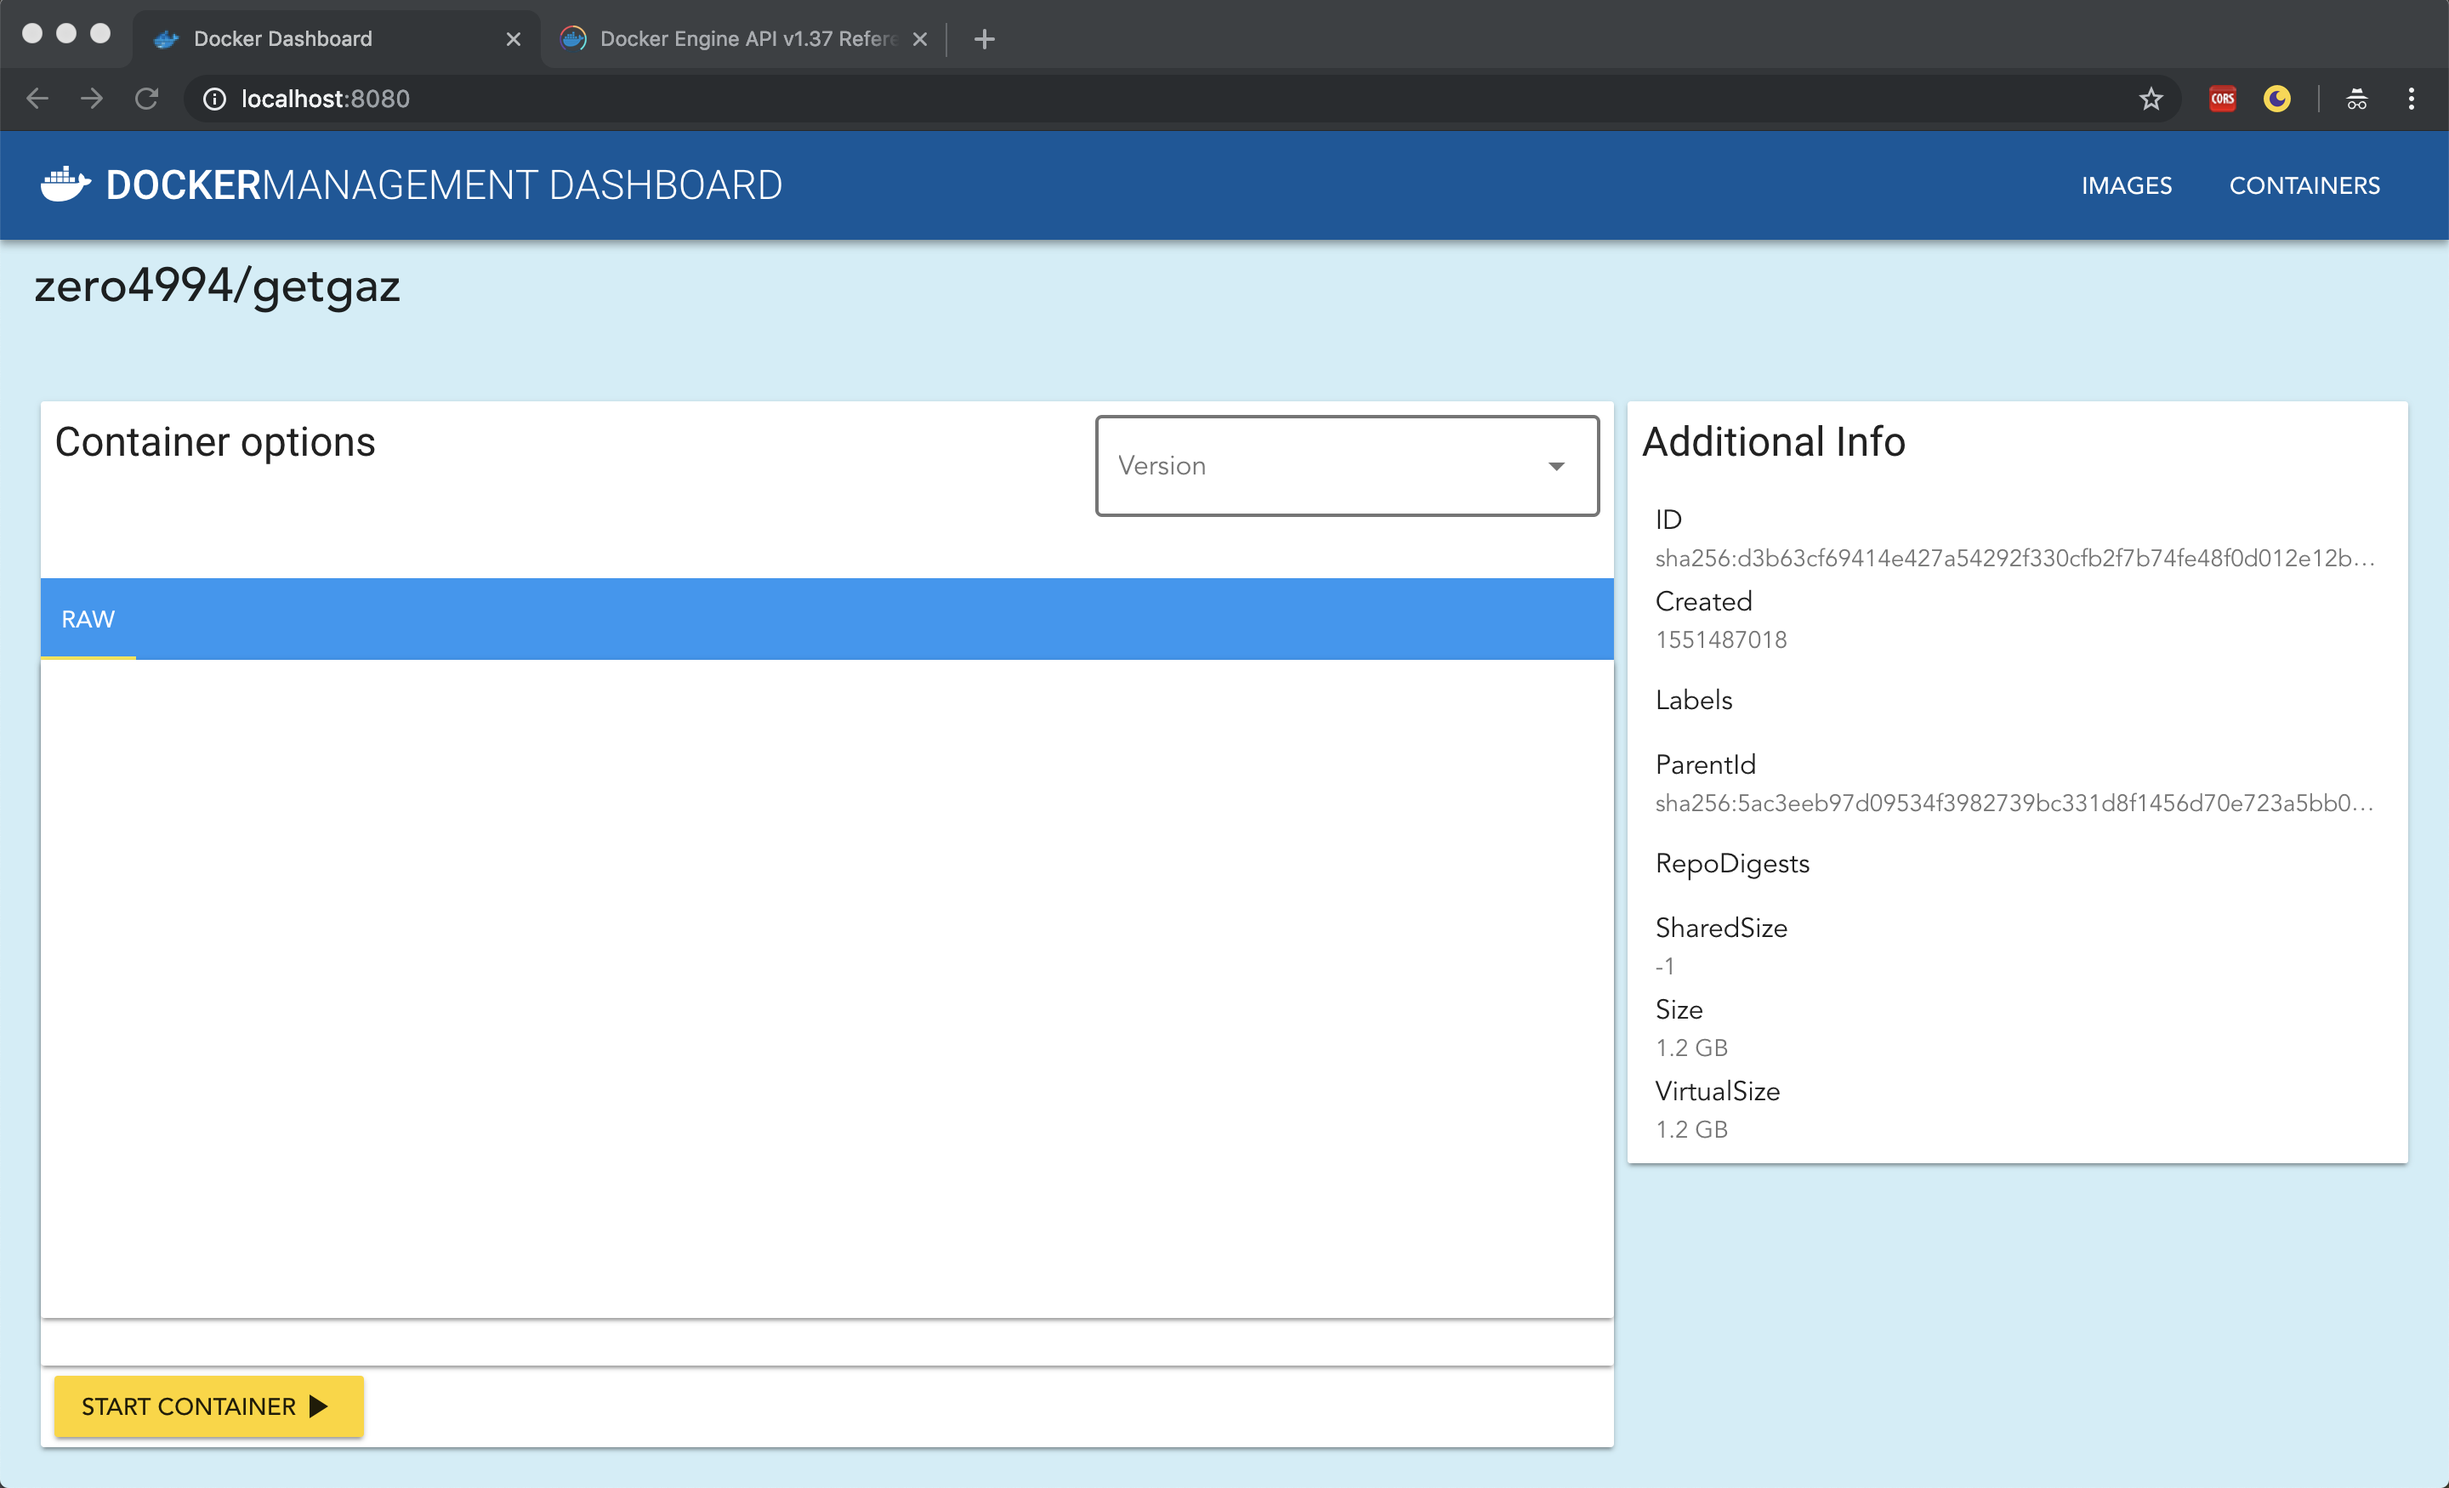
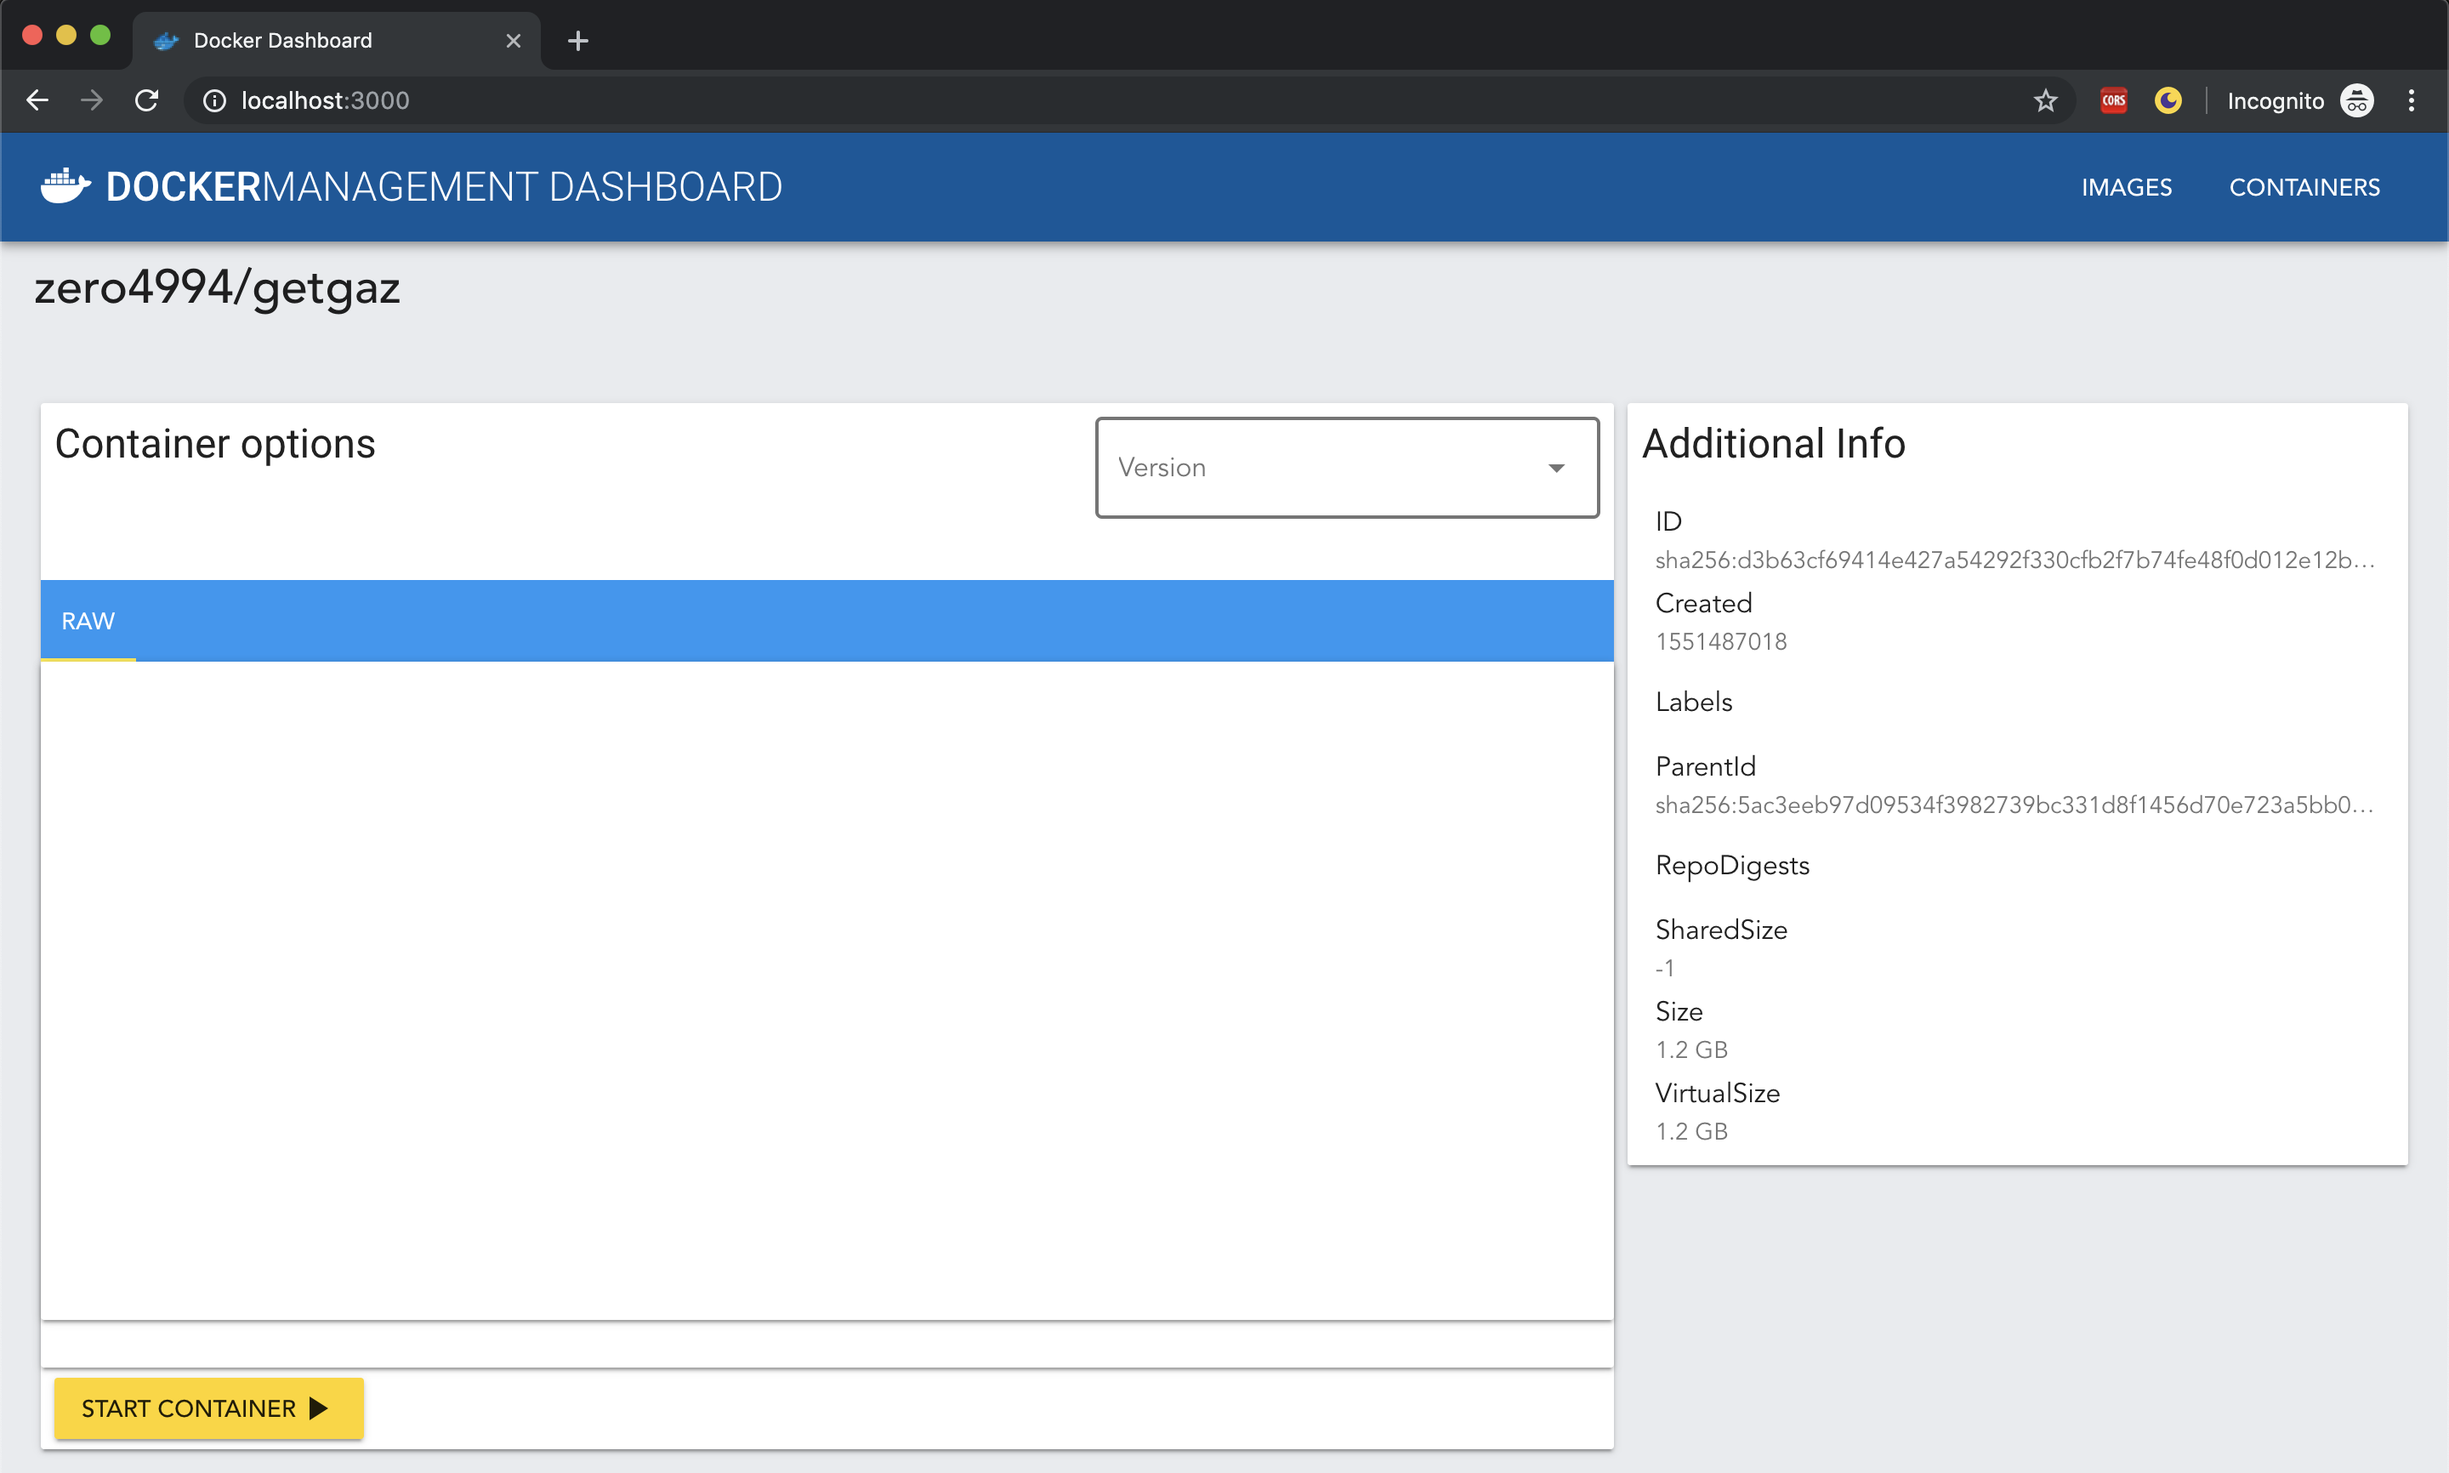
Updates screenshots

diff --git a/src/App.vue b/src/App.vue
@@ -42,6 +42,7 @@ export default {
   -webkit-font-smoothing: antialiased;
   -moz-osx-font-smoothing: grayscale;
   /* //color: #2c3e50; */
-  background-color: #cfeef7;
+  /* background-color: #cfeef7; */
+  background-color: #e9ebee;
 }
 </style>

diff --git a/README.md b/README.md
@@ -53,7 +53,7 @@ Execute yarn to initialize
 yarn install
 ```
 
-Build the repo
+Build
 
 ```bash
 yarn build
